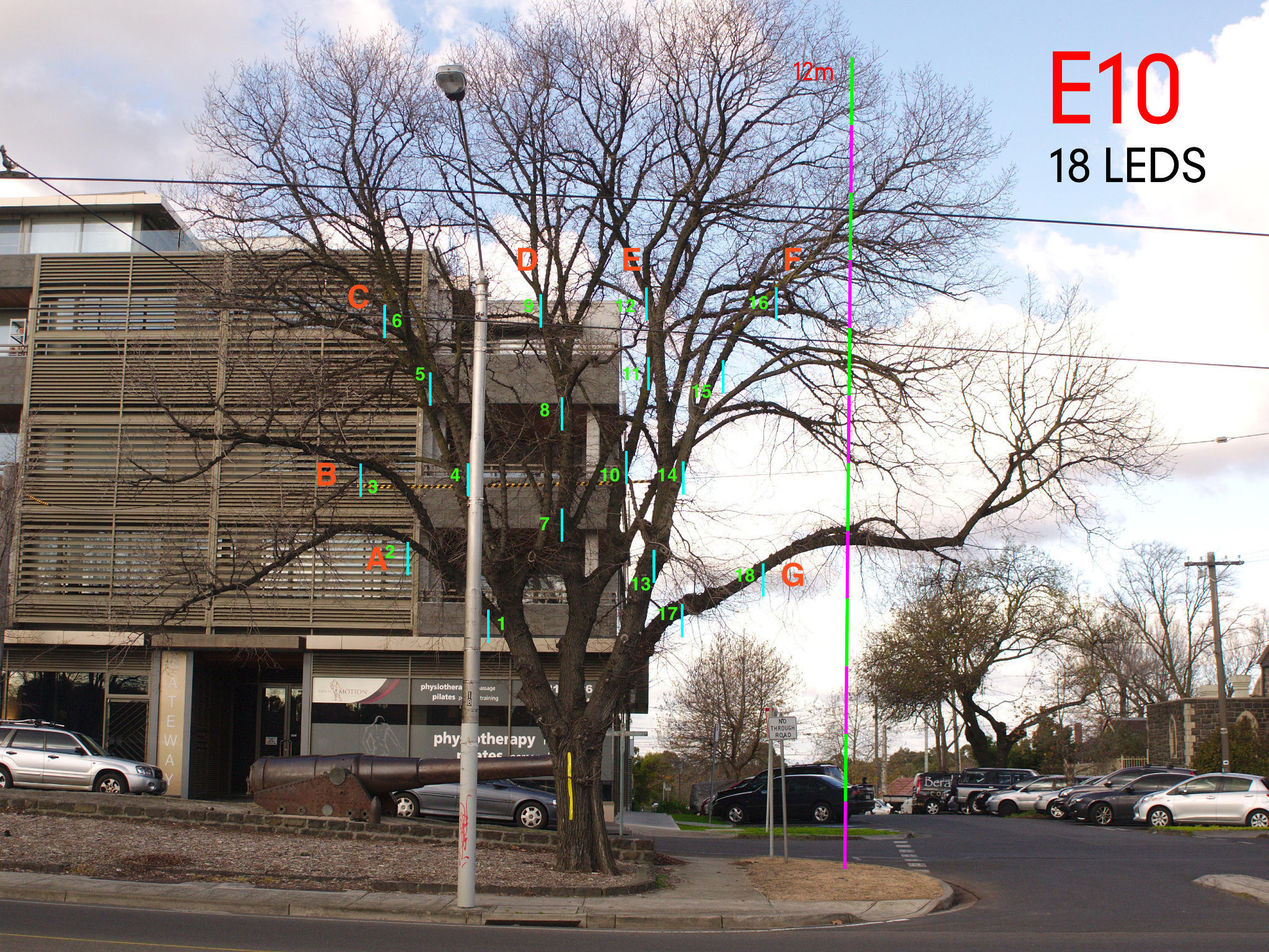
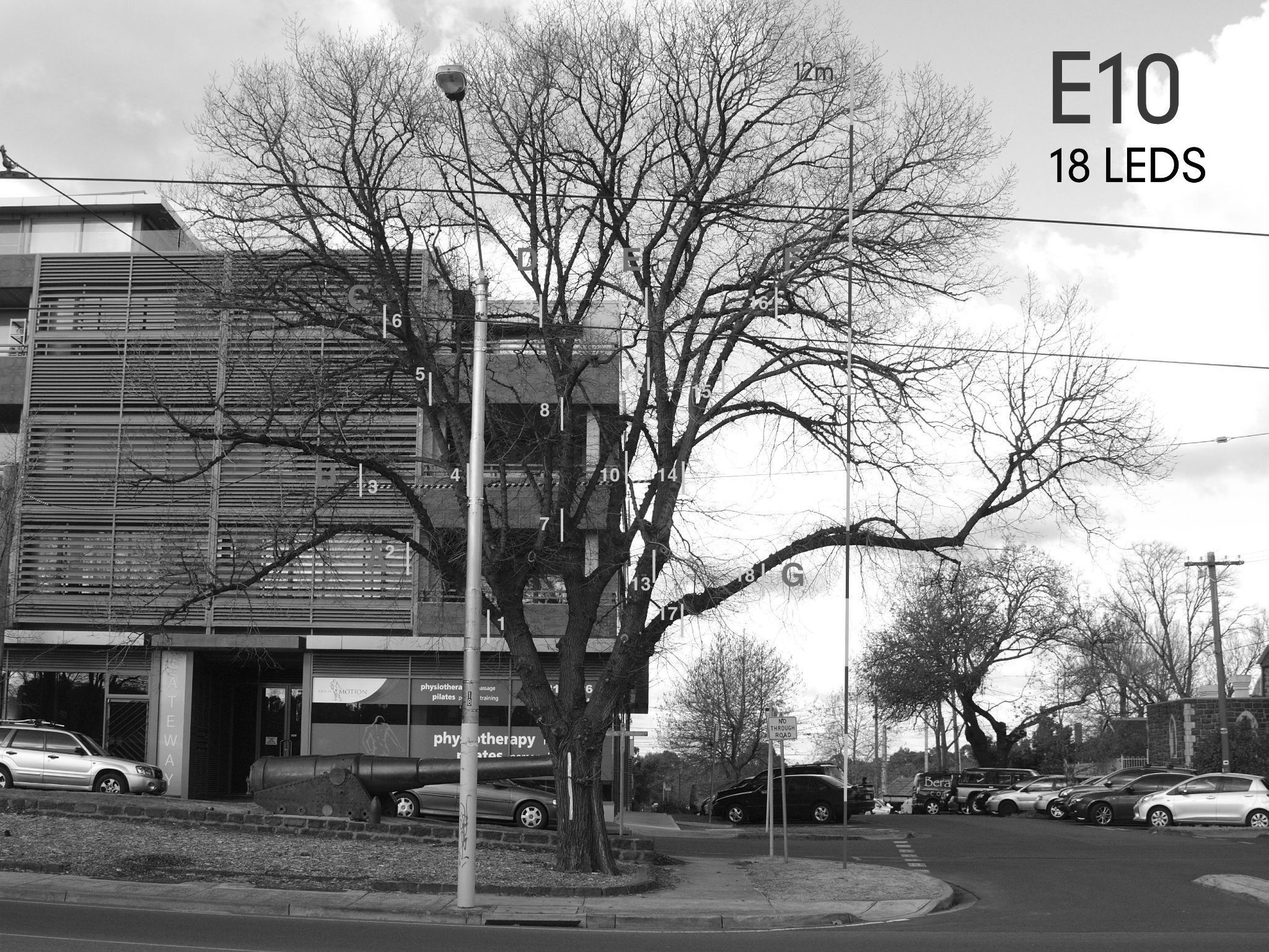
changed pics to greyscale

diff --git a/CallAndResponse/src/LightsEditor.cpp b/CallAndResponse/src/LightsEditor.cpp
@@ -34,7 +34,6 @@ void LightsEditor::setup(TreeData* _data)
         #endif
     }
 	*/
-
 	
 	treeimg.resize(data->trees.size());
 	for (int i = 0; i < data->trees.size(); i++) {
@@ -42,14 +41,10 @@ void LightsEditor::setup(TreeData* _data)
 		string name = data->trees.at(i)->getName();
 		ofLogNotice("Loading " + name + ".jpg");
 		imgLoader.loadFromDisk(treeimg[i], "TreePhotos/" + name + ".jpg");
-
-		//treeimg[i].setImageType(OF_IMAGE_GRAYSCALE);
 #endif
 	}
-	
 
     lightNum.load("Fonts/AUdimat-Bold.otf",11,true);
-
 }
 
 void LightsEditor::draw()

diff --git a/CallAndResponse/src/TreeData.h b/CallAndResponse/src/TreeData.h
@@ -14,7 +14,7 @@ class TreeData
         void save();
 
         /* State */
-        const enum State {LIGHTS_OFF, LIGHTS_ON, PAUSED, START_TRAIL, END_TRAIL, START_BLOOM, END_BLOOM, NEW_TREE, NEXT_TREE };
+        enum State {LIGHTS_OFF, LIGHTS_ON, PAUSED, START_TRAIL, END_TRAIL, START_BLOOM, END_BLOOM, NEW_TREE, NEXT_TREE };
         State state;
         State lastState;
 

diff --git a/CallAndResponse/src/ofApp.cpp b/CallAndResponse/src/ofApp.cpp
@@ -28,7 +28,7 @@ ofApp::ofApp() :
 void ofApp::setup(){
     ofBackground(50,50,50);
     ofSetVerticalSync(false);
-    //ofSetFrameRate(25);
+    ofSetFrameRate(25);
 
     data.load();
     editor.setup(&data);
